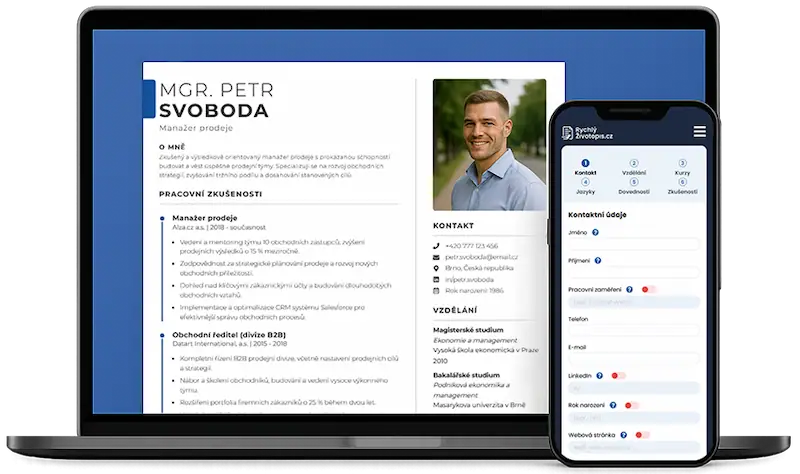
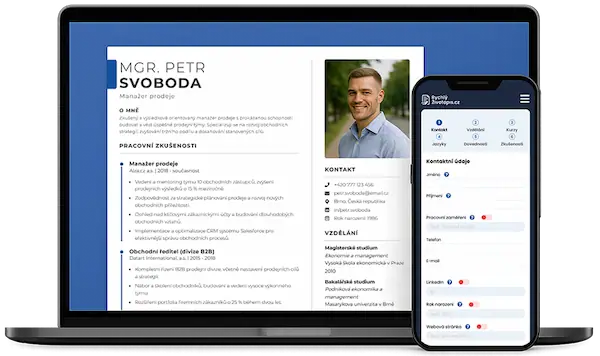
oprava lcp

diff --git a/src/components/cs/Header.tsx b/src/components/cs/Header.tsx
@@ -64,20 +64,22 @@ export default function Header() {
                 Životopis
               </Link>
             </li>
-            <LanguageSelector
-              current="cs"
-              onSelect={lang => {
-                // Custom logika...
-                const segments = window.location.pathname.split("/").filter(Boolean);
-                if (["cs", "sk"].includes(segments[0])) {
-                  segments[0] = lang;
-                } else {
-                  segments.unshift(lang);
-                }
-                const newPath = "/" + segments.join("/");
-                window.location.pathname = newPath;
-              }}
-            />
+            <li className={styles.menuItem}>
+              <LanguageSelector
+                current="cs"
+                onSelect={lang => {
+                  // Custom logika...
+                  const segments = window.location.pathname.split("/").filter(Boolean);
+                  if (["cs", "sk"].includes(segments[0])) {
+                    segments[0] = lang;
+                  } else {
+                    segments.unshift(lang);
+                  }
+                  const newPath = "/" + segments.join("/");
+                  window.location.pathname = newPath;
+                }}
+              />
+            </li>
           </ul>
         </nav>
       </div>

diff --git a/src/components/cs/SpecialHeader.tsx b/src/components/cs/SpecialHeader.tsx
@@ -64,20 +64,22 @@ export default function Header() {
                 Životopis
               </Link>
             </li>
-            <LanguageSelector
-              current="cs"
-              onSelect={lang => {
-                // Custom logika...
-                const segments = window.location.pathname.split("/").filter(Boolean);
-                if (["cs", "sk"].includes(segments[0])) {
-                  segments[0] = lang;
-                } else {
-                  segments.unshift(lang);
-                }
-                const newPath = "/" + segments.join("/");
-                window.location.pathname = newPath;
-              }}
-            />
+            <li className={styles.menuItem}>
+              <LanguageSelector
+                current="cs"
+                onSelect={lang => {
+                  // Custom logika...
+                  const segments = window.location.pathname.split("/").filter(Boolean);
+                  if (["cs", "sk"].includes(segments[0])) {
+                    segments[0] = lang;
+                  } else {
+                    segments.unshift(lang);
+                  }
+                  const newPath = "/" + segments.join("/");
+                  window.location.pathname = newPath;
+                }}
+              />
+            </li>
           </ul>
         </nav>
       </div>

diff --git a/src/components/sk/Header.tsx b/src/components/sk/Header.tsx
@@ -64,20 +64,22 @@ export default function Header() {
                 Životopis
               </Link>
             </li>
-            <LanguageSelector
-              current="sk"
-              onSelect={lang => {
-                // Custom logika...
-                const segments = window.location.pathname.split("/").filter(Boolean);
-                if (["cs", "sk"].includes(segments[0])) {
-                  segments[0] = lang;
-                } else {
-                  segments.unshift(lang);
-                }
-                const newPath = "/" + segments.join("/");
-                window.location.pathname = newPath;
-              }}
-            />
+            <li className={styles.menuItem}>
+              <LanguageSelector
+                current="sk"
+                onSelect={lang => {
+                  // Custom logika...
+                  const segments = window.location.pathname.split("/").filter(Boolean);
+                  if (["cs", "sk"].includes(segments[0])) {
+                    segments[0] = lang;
+                  } else {
+                    segments.unshift(lang);
+                  }
+                  const newPath = "/" + segments.join("/");
+                  window.location.pathname = newPath;
+                }}
+              />
+            </li>
           </ul>
         </nav>
       </div>

diff --git a/src/components/sk/SpecialHeader.tsx b/src/components/sk/SpecialHeader.tsx
@@ -64,20 +64,22 @@ export default function Header() {
                 Životopis
               </Link>
             </li>
-            <LanguageSelector
-              current="sk"
-              onSelect={lang => {
-                // Custom logika...
-                const segments = window.location.pathname.split("/").filter(Boolean);
-                if (["cs", "sk"].includes(segments[0])) {
-                  segments[0] = lang;
-                } else {
-                  segments.unshift(lang);
-                }
-                const newPath = "/" + segments.join("/");
-                window.location.pathname = newPath;
-              }}
-            />
+            <li className={styles.menuItem}>
+              <LanguageSelector
+                current="sk"
+                onSelect={lang => {
+                  // Custom logika...
+                  const segments = window.location.pathname.split("/").filter(Boolean);
+                  if (["cs", "sk"].includes(segments[0])) {
+                    segments[0] = lang;
+                  } else {
+                    segments.unshift(lang);
+                  }
+                  const newPath = "/" + segments.join("/");
+                  window.location.pathname = newPath;
+                }}
+              />
+            </li>
           </ul>
         </nav>
       </div>

diff --git a/src/scss/FeaturesSection.module.scss b/src/scss/FeaturesSection.module.scss
@@ -20,6 +20,7 @@
   background-color: $white-color;
   padding: 64px;
   padding-top: 32px;
+  align-items: stretch;
   @media (max-width: 1024px) {
     gap: $gap2;
     padding: 32px;
@@ -34,6 +35,7 @@
   display: flex;
   flex-direction: column;
   gap: 8px;
+  min-height: 180px;
   transition: transform 0.2s ease;
   &:hover {
     transform: translateY(-5px);
@@ -41,21 +43,26 @@
   h3 {
     font-size: $h3;
     color: $secondary-color;
+    line-height: 1.2;
   }
   p {
     font-size: $p;
     color: $text2-color;
+    line-height: 1.5;
   }
   .icon {
     font-size: $icon;
     color: $btn-hover-color;
+    min-height: $icon;
   } 
   @media (max-width: 700px) {
     padding: 0;
     gap: 0;
+    min-height: 0;
     .icon {
       font-size: 1.8rem;
       color: $btn-hover-color;
+      min-height: 1.8rem;
     }
   }
 }

diff --git a/src/components/cs/HeroSection.tsx b/src/components/cs/HeroSection.tsx
@@ -25,6 +25,7 @@ export default function HeroSection() {
               className={styles.HeroleftImg}  // pokud chceš stylovat ještě obrázek samotný
               sizes="100%"
               loading="eager"
+              fetchpriority="high"
             />
           </picture>
           <picture className={styles.HeroleftImg2}>

diff --git a/src/components/sk/HeroSection.tsx b/src/components/sk/HeroSection.tsx
@@ -25,6 +25,7 @@ export default function HeroSection() {
               className={styles.HeroleftImg}  // pokud chceš stylovat ještě obrázek samotný
               sizes="100%"
               loading="eager"
+              fetchpriority="high"
             />
           </picture>
           <picture className={styles.HeroleftImg2}>

diff --git a/Dokumentace/PROFESNI_LANDING_PAGES_SEO.md b/Dokumentace/PROFESNI_LANDING_PAGES_SEO.md
@@ -396,3 +396,27 @@ Poznámka:
 - `localPatterns.search` se porovnává **na přesnou shodu**, ne jako wildcard.
 - Proto ho **nepoužívat** a nechat jen `pathname`.
 
+---
+
+## 18) Share box u inzerátu (CZ/SK)
+
+Ve sloupci s inzerátem je pod boxem „Příklad inzerátu“ vložen share box s ikonami pro sdílení profese:
+- Facebook, X, WhatsApp, Telegram, Reddit
+- text: **„Sdílejte rady & tipy s ostatními“**
+- klikání přes ikonky
+
+Responzivní chování:
+- **>= 900px:** share box je pod inzerátem (levý sloupec)
+- **< 900px:** share box se přesune **nad náhled životopisu**
+
+Styly:
+- ikony 28px, X a WhatsApp 24px
+- kruhový background 42px
+- ikonky `space-between`
+- nadpis 20px, centrovaný, margin-bottom 16px
+
+Soubory:
+- `src/pages/cs/profese/[slug].tsx`
+- `src/pages/sk/profese/[slug].tsx`
+- `src/scss/Profession.module.scss`
+
